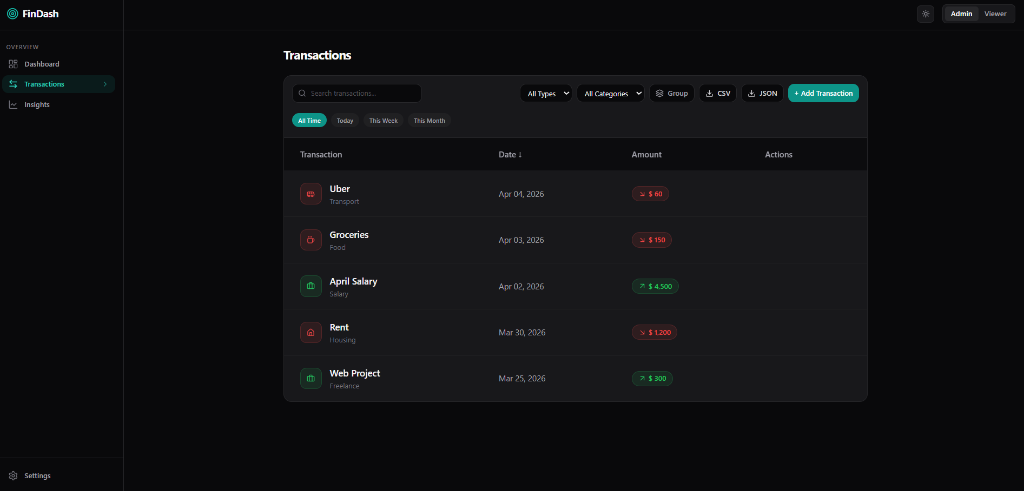
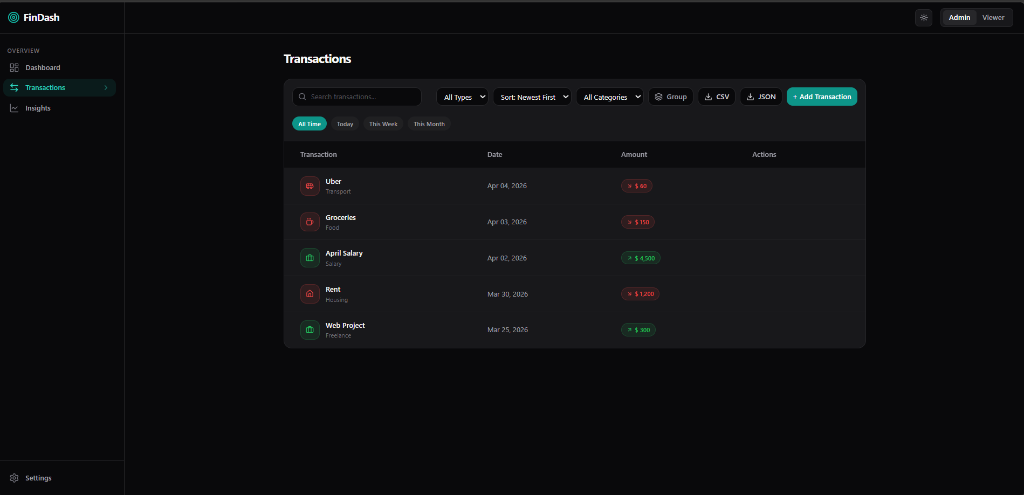
feat:sort is added to transaction dashboard

diff --git a/src/features/transactions/components/TransactionTable.tsx b/src/features/transactions/components/TransactionTable.tsx
@@ -22,9 +22,7 @@ const getCategoryIcon = (category: string) => {
 };
 
 export const TransactionTable = () => {
-  const { transactions, filters, setFilters, role, deleteTransaction, isLoading } = useFinanceStore();
-  const [sortField, setSortField] = useState<'date' | 'amount'>('date');
-  const [sortOrder, setSortOrder] = useState<'asc' | 'desc'>('desc');
+  const { transactions, filters, setFilters, role, deleteTransaction, isLoading, sortBy, setSortBy } = useFinanceStore();
   const [isGrouped, setIsGrouped] = useState(false);
   
   const [isModalOpen, setIsModalOpen] = useState(false);
@@ -52,15 +50,15 @@ export const TransactionTable = () => {
       .filter(t => (filters.category === 'all' ? true : t.category.toLowerCase().includes(filters.category.toLowerCase())))
       .filter(t => (t.description.toLowerCase().includes(filters.search.toLowerCase()) || t.category.toLowerCase().includes(filters.search.toLowerCase())))
       .sort((a, b) => {
-        if (sortField === 'date') {
-          return sortOrder === 'desc' 
-            ? new Date(b.date).getTime() - new Date(a.date).getTime()
-            : new Date(a.date).getTime() - new Date(b.date).getTime();
-        } else {
-          return sortOrder === 'desc' ? b.amount - a.amount : a.amount - b.amount;
+        switch (sortBy) {
+          case 'date_desc': return new Date(b.date).getTime() - new Date(a.date).getTime();
+          case 'date_asc': return new Date(a.date).getTime() - new Date(b.date).getTime();
+          case 'amount_desc': return b.amount - a.amount;
+          case 'amount_asc': return a.amount - b.amount;
+          default: return 0;
         }
       });
-  }, [transactions, filters, sortField, sortOrder]);
+  }, [transactions, filters, sortBy]);
 
   const allCategories = useMemo(() => Array.from(new Set(transactions.map(t => t.category))), [transactions]);
 
@@ -105,6 +103,17 @@ export const TransactionTable = () => {
                 <option value="expense">Expense</option>
               </select>
               
+              <select
+                className="w-full sm:w-auto bg-white dark:bg-zinc-950 border border-zinc-200 dark:border-zinc-800 rounded-xl px-3 py-2 text-sm text-zinc-900 dark:text-zinc-100 focus:outline-none focus:ring-2 focus:ring-teal-500/50 shadow-sm dark:shadow-none transition-all duration-200 hover:border-zinc-300 dark:hover:border-zinc-700"
+                value={sortBy}
+                onChange={(e) => setSortBy(e.target.value as any)}
+              >
+                <option value="date_desc">Sort: Newest First</option>
+                <option value="date_asc">Sort: Oldest First</option>
+                <option value="amount_desc">Sort: High → Low</option>
+                <option value="amount_asc">Sort: Low → High</option>
+              </select>
+
               <select
                 className="w-full sm:w-auto bg-white dark:bg-zinc-950 border border-zinc-200 dark:border-zinc-800 rounded-xl px-3 py-2 text-sm text-zinc-900 dark:text-zinc-100 focus:outline-none focus:ring-2 focus:ring-teal-500/50 shadow-sm dark:shadow-none"
                 value={filters.category}
@@ -177,12 +186,10 @@ export const TransactionTable = () => {
             <tr>
               <th className="px-6 py-4 font-medium pl-8">{isGrouped ? 'Category' : 'Transaction'}</th>
               {!isGrouped && (
-                <th className="px-6 py-4 font-medium cursor-pointer hover:text-zinc-900 dark:hover:text-zinc-200 transition-colors" onClick={() => { setSortField('date'); setSortOrder(s => s === 'asc' ? 'desc' : 'asc') }}>
-                  <span className="flex items-center gap-1">Date {sortField === 'date' && (sortOrder === 'desc' ? '↓' : '↑')}</span>
-                </th>
+                <th className="px-6 py-4 font-medium">Date</th>
               )}
-              <th className="px-6 py-4 font-medium cursor-pointer hover:text-zinc-900 dark:hover:text-zinc-200 transition-colors" onClick={() => { setSortField('amount'); setSortOrder(s => s === 'asc' ? 'desc' : 'asc') }}>
-                <span className="flex items-center gap-1">{isGrouped ? 'Total Amount' : 'Amount'} {sortField === 'amount' && (sortOrder === 'desc' ? '↓' : '↑')}</span>
+              <th className="px-6 py-4 font-medium">
+                {isGrouped ? 'Total Amount' : 'Amount'}
               </th>
               {!isGrouped && <th className="px-6 py-4 font-medium pr-8">Actions</th>}
               {isGrouped && <th className="px-6 py-4 font-medium pr-8">Transactions</th>}

diff --git a/src/store/useFinanceStore.ts b/src/store/useFinanceStore.ts
@@ -1,6 +1,6 @@
 import { create } from 'zustand';
 import { persist } from 'zustand/middleware';
-import type { Transaction, Filters, Role } from '../types';
+import type { Transaction, Filters, Role, SortOption } from '../types';
 
 interface FinanceState {
   transactions: Transaction[];
@@ -10,6 +10,7 @@ interface FinanceState {
   budget: number;
   isLoading: boolean;
   error: string | null;
+  sortBy: SortOption;
   addTransaction: (tx: Omit<Transaction, 'id'>) => Promise<void>;
   deleteTransaction: (id: string) => Promise<void>;
   updateTransaction: (id: string, tx: Partial<Transaction>) => Promise<void>;
@@ -18,6 +19,7 @@ interface FinanceState {
   setBudget: (budget: number) => void;
   toggleTheme: () => void;
   clearError: () => void;
+  setSortBy: (sortBy: SortOption) => void;
 }
 
 const generateMockData = (): Transaction[] => {
@@ -40,6 +42,7 @@ export const useFinanceStore = create<FinanceState>()(
       budget: 5000,
       isLoading: false,
       error: null,
+      sortBy: 'date_desc',
       addTransaction: async (tx) => {
         set({ isLoading: true, error: null });
         try {
@@ -81,7 +84,8 @@ export const useFinanceStore = create<FinanceState>()(
       setRole: (role) => set({ role }),
       setBudget: (budget) => set({ budget }),
       toggleTheme: () => set((state) => ({ theme: state.theme === 'light' ? 'dark' : 'light' })),
-      clearError: () => set({ error: null })
+      clearError: () => set({ error: null }),
+      setSortBy: (sortBy) => set({ sortBy })
     }),
     { 
       name: 'finance-storage',
@@ -90,7 +94,8 @@ export const useFinanceStore = create<FinanceState>()(
         filters: state.filters, 
         role: state.role, 
         theme: state.theme, 
-        budget: state.budget 
+        budget: state.budget,
+        sortBy: state.sortBy
       })
     }
   )

diff --git a/src/types/index.ts b/src/types/index.ts
@@ -17,3 +17,5 @@ export interface Filters {
   search: string;
   timeRange: 'all' | 'today' | 'week' | 'month';
 }
+
+export type SortOption = 'date_desc' | 'date_asc' | 'amount_desc' | 'amount_asc';
